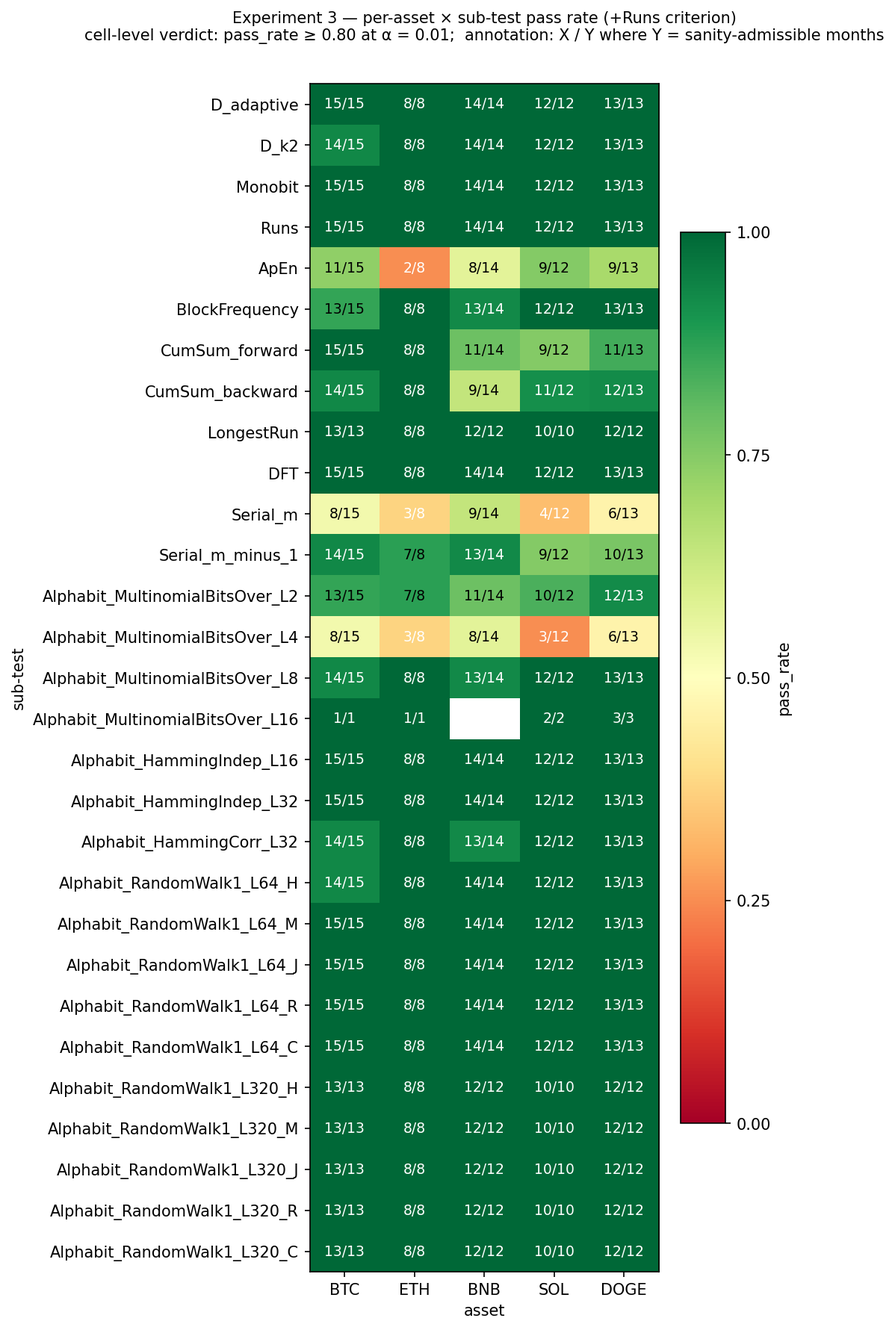
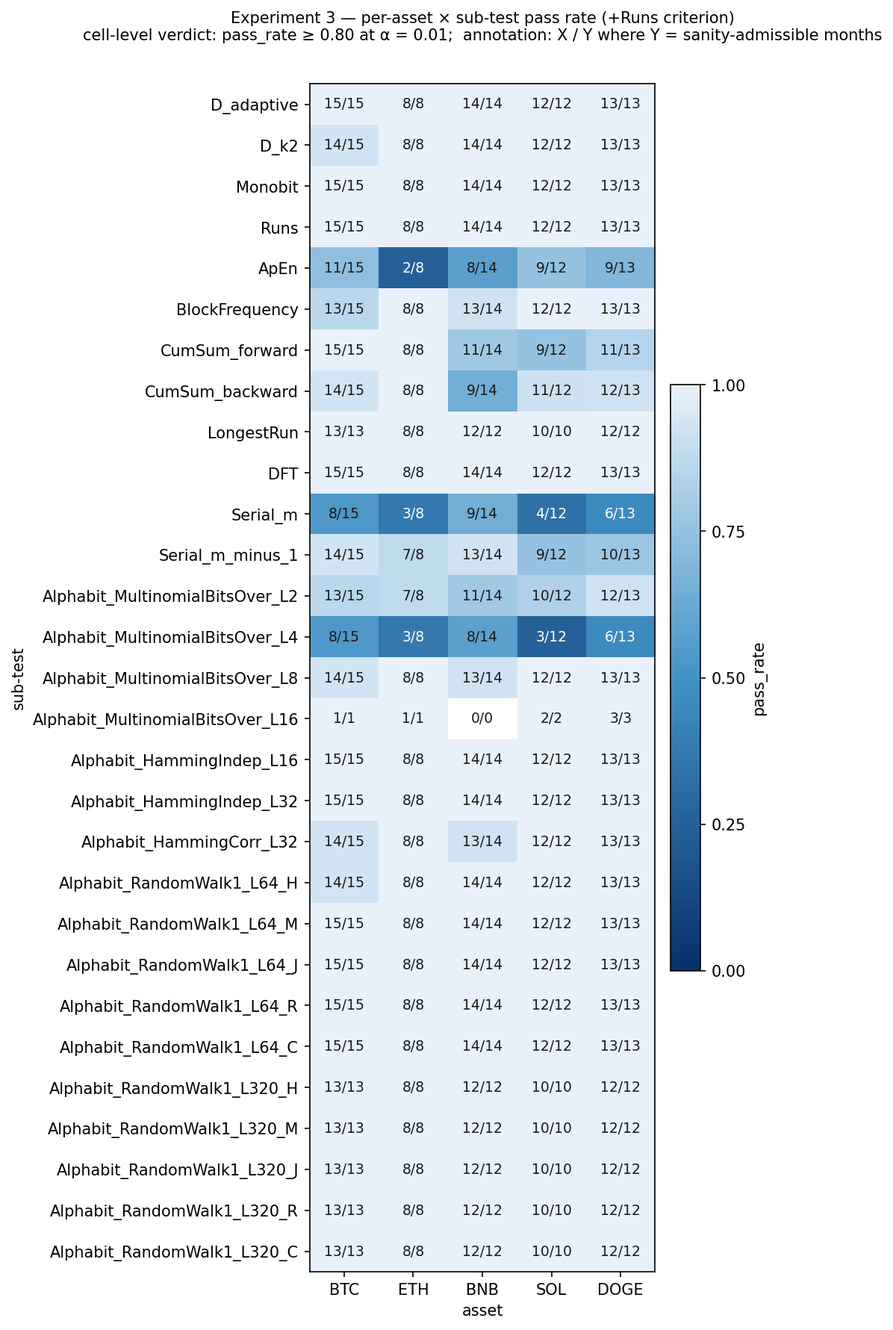
docs(thesis): em-dash typography pass and minor wording polish

diff --git a/thesis/main.tex b/thesis/main.tex
@@ -127,9 +127,9 @@ The experiments give a conditional yes. Raw per-trade price changes fail the sta
 
 Random numbers are used in many areas, including cryptography, digital signatures, data anonymisation, and simulation. They are one of the most basic building blocks for system security and correctness. 
 
-There are two common types of random number sources. The first type is the pseudo-random number generator (PRNG), which uses a deterministic algorithm. It starts from a short initial value, called a \emph{seed}, and expands it into a long sequence of numbers that look random. As long as the seed is kept secret, the output is unpredictable. The catch is that the seed itself must be genuinely hard to guess - what is technically called a \emph{high-entropy} value, meaning it carries enough true unpredictability that an attacker cannot reproduce it. A PRNG therefore does not remove the need for true randomness; it only shifts that need to producing a good seed. 
+There are two common types of random number sources. The first type is the pseudo-random number generator (PRNG), which uses a deterministic algorithm. It starts from a short initial value, called a \emph{seed}, and expands it into a long sequence of numbers that look random. As long as the seed is kept secret, the output is unpredictable. The catch is that the seed itself must be genuinely hard to guess --- what is technically called a \emph{high-entropy} value, meaning it carries enough true unpredictability that an attacker cannot reproduce it. A PRNG therefore does not remove the need for true randomness; it only shifts that need to producing a good seed. 
 
-The second type is the true random number generator (TRNG), which uses physical processes such as electronic noise - for instance, the on-chip RDRAND/RDSEED instructions in modern Intel CPUs~\citep{mathew2012intel} - or quantum sources such as photon detection and vacuum-fluctuation measurement, which are surveyed in detail by~\citet{herrero2017qrng} and have been commercialised as products like ID Quantique's Quantis. TRNGs provide real unpredictability, but they require special hardware, are expensive to deploy, and are not easy to access on ordinary user devices.
+The second type is the true random number generator (TRNG), which uses physical processes such as electronic noise --- for instance, the on-chip RDRAND/RDSEED instructions in modern Intel CPUs~\citep{mathew2012intel} --- or quantum sources such as photon detection and vacuum-fluctuation measurement, which are surveyed in detail by~\citet{herrero2017qrng} and have been commercialised as products like ID Quantique's Quantis. TRNGs provide real unpredictability, but they require special hardware, are expensive to deploy, and are not easy to access on ordinary user devices.
 
 In recent years, a middle-ground approach has attracted research interest: whether randomness can be extracted from high-entropy natural data sources that already exist and are publicly accessible. Candidates studied in the literature include blockchain data such as Bitcoin block hashes~\citep{bonneau2015bitcoin,pierrot2018malleability} and financial market data; the latter is the focus of this thesis. It is produced by a large number of participants at very high frequency, contains microstructure noise that is hard to model, and shows complexity that is hard to compress beyond simple statistical structure. Several previous works have explored this idea under the name \emph{financial randomness beacon}~\citep{clark2010beacon,chiba2024lfsr,landis2025beacon}, trying to turn public market data into a candidate randomness source.
 
@@ -198,7 +198,7 @@ This section reviews papers related to the statistical properties and randomness
 
 \subsection*{Stylised facts and microstructure noise}
 
-On the statistical properties of high-frequency financial time series, \citet{cont2001stylized} summarised a set of ``stylised facts'' from the returns viewpoint. These include heavy-tailed distributions, volatility clustering, slow power-law decay of the autocorrelation of absolute returns, and - most relevant to this thesis - negative autocorrelation at very short lags (microstructure scale) caused by the bid-ask bounce. That is, trade prices switch frequently between the best bid and the best ask, which makes the bit sequence encoded by the sign of $\Delta p$ strongly negatively correlated at neighbouring positions. \citet{bouchaud2002orderbooks} described the same problem from the order-book side, where price changes are shaped by the limit order book and not by independent draws. \citet{shternshis2025predictability} formalised this negative autocorrelation as a testable first-order residual diagnostic, and provided empirical evidence on three low-price stocks: SNAP, F, and CCL.
+On the statistical properties of high-frequency financial time series, \citet{cont2001stylized} summarised a set of ``stylised facts'' from the returns viewpoint. These include heavy-tailed distributions, volatility clustering, slow power-law decay of the autocorrelation of absolute returns, and --- most relevant to this thesis --- negative autocorrelation at very short lags (microstructure scale) caused by the bid-ask bounce. That is, trade prices switch frequently between the best bid and the best ask, which makes the bit sequence encoded by the sign of $\Delta p$ strongly negatively correlated at neighbouring positions. \citet{bouchaud2002orderbooks} described the same problem from the order-book side, where price changes are shaped by the limit order book and not by independent draws. \citet{shternshis2025predictability} formalised this negative autocorrelation as a testable first-order residual diagnostic, and provided empirical evidence on three low-price stocks: SNAP, F, and CCL.
 
 In addition to the bid-ask bounce, another well-documented stylised fact at the microstructure level is the long memory of trade signs. \citet{lillo2004longmemory} showed on the London Stock Exchange that the signs of executed market orders follow a long-memory process, with autocorrelation that decays slowly. They attribute this to order splitting and herding behaviour. The two stylised facts work in opposite directions on the lag-1 autocorrelation of price-change signs: the bid-ask bounce produces negative autocorrelation by alternating between the bid and the ask, while persistent trade-sign autocorrelation produces positive autocorrelation when a sustained order flow walks the book. Which mechanism dominates depends on the activity regime of the asset.
 
@@ -209,8 +209,8 @@ Together, these works show that any approach which directly treats the ``sign of
 This line of work can be split into three complementary levels of abstraction.
 \begin{enumerate}
 \item \textbf{Protocol level.} \citet{clark2010beacon} used computational finance tools to estimate that each stock in the Dow Jones 30 (a US index of 30 large-cap companies) provides 6--9 bits of entropy per day. Based on this, they designed a 128-bit verifiable beacon protocol. Blockchain data is a parallel route at the same level: \citet{bonneau2015bitcoin} studied Bitcoin block hashes as a public randomness beacon, and \citet{pierrot2018malleability} analysed how such entropy can be malleable under miner or adversarial influence. This thesis does not use blockchain data; it uses financial market data as the entropy input.
-\item \textbf{Bit extraction level.} \citet{chiba2024lfsr} used cryptocurrency prices to perturb the sampling interval of an LFSR, produced a bit stream, and ran Diehard tests (a classic randomness test battery, the historical precursor of NIST STS) as a sanity check - this answers how market signals can be engineered and whitened into usable random bits.
-\item \textbf{Adversarial security level.} \citet{landis2025beacon} showed under an active attacker model that manipulating an S\&P~100 beacon (a US index of 100 large-cap companies) would require billions of dollars of capital and millions of dollars of slippage cost - this moves the question from ``how much entropy is there'' to ``is the entropy trustworthy under adversarial conditions?''.
+\item \textbf{Bit extraction level.} \citet{chiba2024lfsr} used cryptocurrency prices to perturb the sampling interval of an LFSR, produced a bit stream, and ran Diehard tests (a classic randomness test battery, the historical precursor of NIST STS) as a sanity check --- this answers how market signals can be engineered and whitened into usable random bits.
+\item \textbf{Adversarial security level.} \citet{landis2025beacon} showed under an active attacker model that manipulating an S\&P~100 beacon (a US index of 100 large-cap companies) would require billions of dollars of capital and millions of dollars of slippage cost --- this moves the question from ``how much entropy is there'' to ``is the entropy trustworthy under adversarial conditions?''.
 \end{enumerate}
 
 These three levels answer different questions, but none of them connects all the way from ``is the underlying data statistically usable'' to an application-level password prototype. This is the second gap from the Brief Literature Review made concrete on cryptocurrency data. This thesis sits mainly at the bit extraction level, but differs from \citet{chiba2024lfsr} in that, at the randomness-evaluation stage, it does not depend on extra LFSR post-processing. Instead, it directly evaluates whether the aggregated raw data itself satisfies modern randomness tests. It also does not enter the active-attacker level studied by \citet{landis2025beacon}; the scope is a passive statistical setting, which is sufficient for the password-generator evaluation in this thesis (see \cref{sec:linking-results-rq}).
@@ -230,7 +230,7 @@ These three levels answer different questions, but none of them connects all the
 
 This section reviews the core concepts used in the later Methods chapter. All randomness tests are based on the same null hypothesis $H_0$: the sequence is i.i.d. Each test gives a $p$-value, and this thesis uses $\alpha = 0.01$ uniformly as the acceptance threshold.
 
-\textbf{Shannon entropy and conditional unpredictability.} For a binary random variable $X \in \{0, 1\}$, the Shannon entropy is defined as $H(X) = -\sum p(x) \log_2 p(x)$~\citep{shannon1948communication}, and reaches its maximum value of 1 when $p(0) = p(1) = 0.5$. It is worth emphasising that a marginal entropy close to 1 does not imply that the sequence is unpredictable - a sequence that simply alternates between 0 and 1 also has marginal distribution 0.5/0.5, but its conditional entropy $H(X_t \mid X_{t-1}) \approx 0$. The criterion for ``is it random'' used in this thesis is always based on conditional distributions or multi-symbol statistics, not on $H$ alone. Throughout this thesis, the deviation $|H(X) - 1|$ is reported as the \emph{Shannon bias}, used as a summary indicator only and not as an acceptance criterion. Mutual information, conditional entropy, and min-entropy are standard information-theoretic concepts; a general reference is \citet{cover2006information}.
+\textbf{Shannon entropy and conditional unpredictability.} For a binary random variable $X \in \{0, 1\}$, the Shannon entropy is defined as $H(X) = -\sum p(x) \log_2 p(x)$~\citep{shannon1948communication}, and reaches its maximum value of 1 when $p(0) = p(1) = 0.5$. It is worth emphasising that a marginal entropy close to 1 does not imply that the sequence is unpredictable --- a sequence that simply alternates between 0 and 1 also has marginal distribution 0.5/0.5, but its conditional entropy $H(X_t \mid X_{t-1}) \approx 0$. The criterion for ``is it random'' used in this thesis is always based on conditional distributions or multi-symbol statistics, not on $H$ alone. Throughout this thesis, the deviation $|H(X) - 1|$ is reported as the \emph{Shannon bias}, used as a summary indicator only and not as an acceptance criterion. Mutual information, conditional entropy, and min-entropy are standard information-theoretic concepts; a general reference is \citet{cover2006information}.
 
 \textbf{Predictability $\boldsymbol{D}$.} The entropy-based predictability test proposed by \citet{shternshis2025predictability} is based on the Kullback--Leibler divergence. It measures how much the joint distribution of consecutive symbol blocks of length $k$ in the sequence deviates from the distribution that would be expected under i.i.d. Under $H_0$ it asymptotically follows a $\chi^2$ distribution with $(s^{k-1} - 1)(s - 1)$ degrees of freedom (which equals $2^{k-1} - 1$ in the binary case). The window length $k$ is a user-chosen hyper-parameter.
 
@@ -323,7 +323,7 @@ On the transaction-time axis, the unit of $\ell$ is ``number of trades''. On the
 \section{All-Offset Construction}
 \label{sec:all-offset}
 
-The all-offset construction described in this section comes directly from the ``$\ell$-samplings'' framework proposed by \citet{onofri2025emergence} - for each aggregation level $\ell$, $\ell$ separate bit streams are built, one from each starting offset ($o = 0, 1, \ldots, \ell - 1$). This thesis follows this construction, and only adjusts the parameters on the cryptocurrency data (per-asset $\ell$ grid, step, and upper bound).
+The all-offset construction described in this section comes directly from the ``$\ell$-samplings'' framework proposed by \citet{onofri2025emergence} --- for each aggregation level $\ell$, $\ell$ separate bit streams are built, one from each starting offset ($o = 0, 1, \ldots, \ell - 1$). This thesis follows this construction, and only adjusts the parameters on the cryptocurrency data (per-asset $\ell$ grid, step, and upper bound).
 
 For a fixed $\ell$, there are $\ell$ candidate offsets. The construction considers all $\ell$ bit streams together. Let $p^{(o)}$ denote the test $p$-value on each stream; the pass rate is defined as
 \begin{equation}
@@ -350,7 +350,7 @@ Under the extended-battery convention, this thesis uses a fixed \textbf{29-sub-t
 
 \textbf{When TestU01 is enabled.} Following the cross-battery design of \citet{onofri2025emergence}, the methodology of this thesis further includes the Alphabit sub-battery of TestU01 as cross-battery external validation. TestU01 is not enabled during the selection-grid stage: the per-(asset, $\ell$, offset) bit stream is only an intermediate output of parameter search, and its length is usually below the range where the cross-battery sanity check applies, so it is not a suitable input for cross-battery validation. The extended-audit and validation stages concatenate across months, assets, or offsets at the selected $\ell^*$, so that the length meets the sanity-check range, and the corresponding Alphabit sub-tests are then enabled. Rabbit requires longer and more stable bit streams and is therefore not part of the main analysis.
 
-\textbf{Why both fixed $\boldsymbol{k = 2}$ and adaptive $\boldsymbol{k}$?} Adaptive $k = \lfloor 0.5 \log_2 n \rfloor$ is usually 5 to 6 on ultra-high-frequency monthly samples. The $D$ test then has $2^{k-1} \approx 16$ to $32$ contexts; first-order correlation -- whether the symbol reversal caused by the bid-ask bounce, or the same-direction persistence caused by sustained order flow - is diluted across more than ten or even tens of positions, and the statistical power drops quickly. \citet{shternshis2025predictability} provides empirical evidence consistent with this: on predictable days, with fixed $k = 2$, the ``too strong sign reversal'' pattern (i.e., $\hat{p}(00) + \hat{p}(11) < 0.5$) is significant; when $k$ is raised to about 5 to 6, this pattern is no longer significant. Therefore, $D(k = 2)$ is kept as a first-order diagnostic for pair-of-signs dependence, complementary to $D(\text{adaptive } k)$. The former captures short-range structure, while the latter measures the overall predictability. The later baseline results further verify that first-order residuals in cryptocurrency tick signs need to be diagnosed explicitly, rather than being left to the adaptive-$k$ main statistic alone.
+\textbf{Why both fixed $\boldsymbol{k = 2}$ and adaptive $\boldsymbol{k}$?} Adaptive $k = \lfloor 0.5 \log_2 n \rfloor$ is usually 5 to 6 on ultra-high-frequency monthly samples. The $D$ test then has $2^{k-1} \approx 16$ to $32$ contexts; first-order correlation -- whether the symbol reversal caused by the bid-ask bounce, or the same-direction persistence caused by sustained order flow --- is diluted across more than ten or even tens of positions, and the statistical power drops quickly. \citet{shternshis2025predictability} provides empirical evidence consistent with this: on predictable days, with fixed $k = 2$, the ``too strong sign reversal'' pattern (i.e., $\hat{p}(00) + \hat{p}(11) < 0.5$) is significant; when $k$ is raised to about 5 to 6, this pattern is no longer significant. Therefore, $D(k = 2)$ is kept as a first-order diagnostic for pair-of-signs dependence, complementary to $D(\text{adaptive } k)$. The former captures short-range structure, while the latter measures the overall predictability. The later baseline results further verify that first-order residuals in cryptocurrency tick signs need to be diagnosed explicitly, rather than being left to the adaptive-$k$ main statistic alone.
 
 \section{Acceptance Criteria}
 \label{sec:acceptance-criteria}
@@ -581,7 +581,7 @@ Experiment~1 answers the negative side of RQ1. The simplest possible baseline is
 \label{sec:exp1-results}
 
 \begin{table}[!htbp]
-  \caption{Experiment~1 baseline - per-asset summary.}
+  \caption{Experiment~1 baseline --- per-asset summary.}
   \label{tab:exp1-summary}
   \centering
   \setlength{\tabcolsep}{4.2pt}
@@ -607,7 +607,7 @@ Experiment~1 answers the negative side of RQ1. The simplest possible baseline is
   \begin{center}
     \includegraphics[width=\textwidth]{figures/exp1_per_asset_distributions.png}
   \end{center}
-  \caption{Experiment~1 baseline - per-(asset, month) distributions.}
+  \caption{Experiment~1 baseline --- per-(asset, month) distributions.}
   \label{fig:exp1-distributions}
   \floatnote{One observation per (asset, month) cell across the 15-month sample. \emph{Top-left:} bits per second. \emph{Top-right:} lag-1 autocorrelation $\rho_1$, with the zero line marked. \emph{Bottom-left:} ECDF of $-\log_{10}(p_{\text{Monobit}})$, with the $\alpha = 0.01$ rejection threshold marked. \emph{Bottom-right:} $L_{\max} = \max(\text{0-run}, \text{1-run})$ histogram.}
 \end{figure}
@@ -765,7 +765,7 @@ This step replaces the ``single offset passes'' rule with the strict criterion o
 
 \textbf{BTC plays the high-activity outlier role in this dataset: 8 of 15 months have no solution in $\ell \leq 2000$.} Under single offset only 2 months (2025-01, 2025-08) fail; under the strict criterion this number rises to 8. The same asset and the same aggregation range now cost much more, mostly because BTC has to carry the $80\%$ joint confirmation. This failure pattern cannot be explained by single-month raw trades/s alone: ETH, which also has high activity, still passes 13 of 15 months, while BTC fails on both lower and higher activity months. ETH and SOL each have 2 failing months, so $63$ of $75$ cells pass and the overall acceptance rate of the strict criterion is $63/75 = 84\%$.
 
-\textbf{The streams that pass the strict criterion still fail Runs in a systematic way.} It should be stressed that the strict criterion uses only $D$ (adaptive $k$) + Monobit as the main criterion. Among the 63 cells accepted, 38 cells have a Runs pass rate below $0.05$ (see the note of \cref{tab:appendix-a2}), which means that at the selected $\ell^*$ of those cells almost every offset stream is rejected by Runs; $D(k = 2)$ shows the same pattern. So ``passing the strict criterion'' does not mean ``the first-order structure is removed''; it only guarantees that $D$ at adaptive $k$ and Monobit are both satisfied. This residual is a stable feature on the transaction-time axis, and is one reason for comparing the physical-time axis in \cref{sec:exp2-1sbars}.
+\textbf{The streams that pass the strict criterion still fail Runs in a systematic way.} The strict criterion uses only $D$ (adaptive $k$) and Monobit as its main test, with Runs and $D(k=2)$ kept as diagnostics. Among the 63 cells accepted, 38 cells have a Runs pass rate below $0.05$ (see the note of \cref{tab:appendix-a2}): at the selected $\ell^*$ of those cells almost every offset stream is rejected by Runs, and $D(k=2)$ shows the same pattern. Passing the strict criterion therefore certifies $D$ (adaptive $k$) and Monobit, while first-order structure can still remain. This residual is a stable feature on the transaction-time axis, and is one reason for comparing the physical-time axis in \cref{sec:exp2-1sbars}.
 
 \textbf{The strict criterion leaves two practical problems.} First, BTC has no acceptable $\ell \leq 2000$ on 8 months, which shows that the $80\%$ requirement can be too strict for the highest-activity asset. Second, the month-to-month range of selected $\ell^*$ is wide, and the coarse grid further limits the precision of the estimate. \cref{sec:exp2-relaxed-criterion} therefore tries a relaxed offset-coverage criterion and also refines the $\ell$ grid to step $2$.
 
@@ -1190,7 +1190,7 @@ The 33-byte IKM size follows the min-entropy estimate in \cref{tab:exp4-min-entr
 
 Rejection sampling is used to avoid modulo bias~\citep{lemire2019random}. The accepted byte range is $b < 210$, because 210 is the largest multiple of 70 below 256. The HKDF implementation is checked against RFC 5869 Appendix~A Test Case~1~\citep{krawczyk2010rfc5869}. In this run, all 2,400 HKDF-generated passwords finish in one expand round, and the re-expand fallback is never used.
 
-The scope is passive statistical evaluation. Since the market input has already been evaluated in \cref{cha:experiments}, this chapter uses output-level character uniformity and Shannon entropy rather than rerunning the full NIST/TestU01 battery on the password strings. Active market manipulation and production secret management remain outside this prototype scope.
+This chapter uses output-level character uniformity and Shannon entropy rather than re-running the full NIST/TestU01 battery on the password strings, since the statistical randomness of the market input has already been evaluated in \cref{cha:experiments}.
 
 The prototype uses a repository-persisted salt so that the demo output can be reproduced exactly. This salt is suitable for reproducing the experiment: the same market streams, code, and salt generate the same passwords. Since market data are public, a production password generator would need to combine the market-derived entropy with non-public deployment-secret material during conditioning. The public demo salt in the repository is not suitable as the only secret source in a production setting.
 
@@ -1225,7 +1225,7 @@ Each cell is evaluated with two output metrics. First, the 100 passwords are exp
 
 \begin{figure}[!htb]
   \begin{center}
-    \includegraphics[width=\textwidth]{figures/prototype_eval_chi2_entropy.png}
+    \includegraphics[width=0.9\textwidth]{figures/prototype_eval_chi2_entropy.png}
   \end{center}
   \caption{Prototype evaluation -- chi-square and Shannon entropy.}
   \label{fig:prototype-eval}
@@ -1341,7 +1341,7 @@ The contributions of this thesis can be grouped into two levels: method-level an
 
 \textbf{Application contribution.} \cref{cha:prototype} gives an end-to-end password generator prototype. It connects the Experiment~4 deployable streams to HKDF-SHA256 conditioning and 70-character rejection sampling. In the evaluation, all the market-derived cells pass the character-uniformity test and their Shannon entropy matches the ideal baselines (see \cref{tab:prototype-evaluation}). This is the application-level evidence that standard cryptographic conditioning can turn the deployable streams into usable passwords.
 
-Overall, the thesis shows that market-derived randomness is not usable in raw form, but it can become useful after aggregation, extended testing, multi-asset combination, min-entropy sizing, and cryptographic conditioning. The result is practical, but deliberately bounded by the passive statistical scope of the work. The implementation code, experiment scripts, and processed outputs are available in the project repository: \url{https://github.com/Liu-yujia-66/CryptoEntropy-RNG}.
+Overall, the thesis shows that market-derived randomness is not usable in raw form, but it can become useful after aggregation, extended testing, multi-asset combination, min-entropy sizing, and cryptographic conditioning. The implementation code, experiment scripts, and processed outputs are available in the project repository: \url{https://github.com/Liu-yujia-66/CryptoEntropy-RNG}.
 
 %% =====================================================================
 %% Appendix

diff --git a/scripts/plot_exp4_validation.py b/scripts/plot_exp4_validation.py
@@ -116,7 +116,7 @@ DISPLAY_ASSET_NAME = {
 # fused streams) is paler so it visually reads as "no data" rather than
 # "ran and failed sanity". Any unknown verdict string is binned into
 # NOT_RUN by the .get() default — keeps the runner / plot drift-safe.
-VERDICT_COLOURS = ListedColormap(["#2ca02c", "#d62728", "#cccccc", "#f4f4f4"])
+VERDICT_COLOURS = ListedColormap(["#e8f1fa", "#08306b", "#bdc7d1", "#ffffff"])
 VERDICT_LABELS = {"PASS": 0, "FAIL": 1, "INVALID": 2, "NOT_RUN": 3}
 
 
@@ -148,6 +148,11 @@ def _plot_verdict_matrices(validation_root: Path, output_path: Path) -> None:
     summary = json.loads(summary_path.read_text())
     n_values = summary["n_values"]
     subset_picks = summary["subset_picks"]
+    tick_fontsize = 10
+    axis_label_fontsize = 11
+    panel_title_fontsize = 12
+    legend_fontsize = 11
+    figure_title_fontsize = 14
 
     # 29 sub-tests per panel; widen from the 12-test era's (13, 9) so the
     # x-axis labels stay legible.
@@ -168,17 +173,19 @@ def _plot_verdict_matrices(validation_root: Path, output_path: Path) -> None:
             interpolation="nearest",
         )
         ax.set_xticks(range(len(SUB_TESTS)))
-        ax.set_xticklabels(SUB_TEST_LABELS, rotation=45, ha="right", fontsize=8)
+        ax.set_xticklabels(
+            SUB_TEST_LABELS, rotation=45, ha="right", fontsize=tick_fontsize
+        )
         ax.set_yticks(range(len(months)))
-        ax.set_yticklabels(months, fontsize=8)
+        ax.set_yticklabels(months, fontsize=tick_fontsize)
         if idx == len(n_values) - 1:
-            ax.set_xlabel("sub-test")
-        ax.set_ylabel("validation month")
+            ax.set_xlabel("sub-test", fontsize=axis_label_fontsize)
+        ax.set_ylabel("validation month", fontsize=axis_label_fontsize)
         ax.set_title(
             f"n={n}: {_short_subset(pick['subset'])}  "
             f"ell*={pick['ell_star_n']}  "
             f"selected output offset={pick['witness_offset']}",
-            fontsize=10,
+            fontsize=panel_title_fontsize,
         )
         # Optionally annotate FAIL cells with pass_rate from the CSV
         per_month_csv = pd.read_csv(n_dir / "per_month_verdict_matrix.csv").sort_values(
@@ -196,7 +203,7 @@ def _plot_verdict_matrices(validation_root: Path, output_path: Path) -> None:
                             f"{rate:.2f}",
                             ha="center",
                             va="center",
-                            fontsize=6,
+                            fontsize=10,
                             color="white",
                         )
 
@@ -205,11 +212,11 @@ def _plot_verdict_matrices(validation_root: Path, output_path: Path) -> None:
         axes[k].axis("off")
 
     handles = [
-        Patch(facecolor="#2ca02c", edgecolor="none", label="PASS (>=80% offsets)"),
-        Patch(facecolor="#d62728", edgecolor="none", label="FAIL"),
-        Patch(facecolor="#cccccc", edgecolor="none", label="INVALID (sanity)"),
+        Patch(facecolor="#e8f1fa", edgecolor="#aaaaaa", label="PASS (>=80% offsets)"),
+        Patch(facecolor="#08306b", edgecolor="none", label="FAIL"),
+        Patch(facecolor="#bdc7d1", edgecolor="none", label="INVALID (sanity)"),
         Patch(
-            facecolor="#f4f4f4",
+            facecolor="#ffffff",
             edgecolor="#888888",
             linewidth=0.5,
             label="NOT_RUN (TestU01 length-skip)",
@@ -221,11 +228,12 @@ def _plot_verdict_matrices(validation_root: Path, output_path: Path) -> None:
         ncol=2,
         frameon=False,
         bbox_to_anchor=(0.5, 0.01),
+        fontsize=legend_fontsize,
     )
     fig.suptitle(
         "Experiment 4 validation — cell-level verdict per sub-test "
         f"(6 months × {len(SUB_TESTS)} sub-tests, throughput-best subset per n)",
-        fontsize=12,
+        fontsize=figure_title_fontsize,
     )
     fig.tight_layout(rect=(0.0, 0.06, 1.0, 0.975))
     output_path.parent.mkdir(parents=True, exist_ok=True)

diff --git a/scripts/plot_exp4_mi_matrix.py b/scripts/plot_exp4_mi_matrix.py
@@ -35,6 +35,13 @@ import pandas as pd
 
 matplotlib.use("Agg")
 import matplotlib.pyplot as plt
+from matplotlib.colors import LinearSegmentedColormap as _LSC
+
+INK = "#16324f"
+# Monochrome "ink" colormap (no red/green): faint -> deep navy.
+# Saturated blue (no red/green): light blue -> vivid blue -> deep navy;
+# the vivid mid-stop stops the mid-range washing out to grey.
+INK_CMAP = _LSC.from_list("ink", ["#e8f1fa", "#4292c6", "#08306b"])
 
 DISPLAY_NAMES = {
     "BTCUSDT": "BTC",
@@ -123,34 +130,36 @@ def main() -> int:
     ax = axes[0]
     mi_values = mi.values.astype(float)
     mi_masked = np.ma.masked_invalid(mi_values)
-    cmap = plt.cm.viridis.copy()
-    cmap.set_bad(color="#dcdcdc")
+    cmap = INK_CMAP.copy()
+    cmap.set_bad(color="white")
     vmax = float(np.nanmax(mi_values))
-    im = ax.imshow(mi_masked, cmap=cmap, vmin=0.0, vmax=vmax, aspect="auto")
+    im = ax.imshow(mi_masked, cmap=cmap, vmin=0.0, vmax=1.0, aspect="auto")
     ax.set_xticks(range(n))
     ax.set_xticklabels(labels, rotation=0)
     ax.set_yticks(range(n))
     ax.set_yticklabels(labels)
     ax.set_title("Pairwise 1-bit mutual information (bits)")
-    _annotate(ax, mi_values, "{:.3f}", colour_threshold=vmax * 0.55)
+    _annotate(ax, mi_values, "{:.3f}", colour_threshold=0.55)
     cbar = fig.colorbar(im, ax=ax, fraction=0.046, pad=0.04)
+    cbar.set_ticks([0.0, 0.25, 0.5, 0.75, 1.0])
     cbar.set_label("MI (bits)")
 
     # ---- Bottom: Pearson heatmap ----
     ax = axes[1]
     rho_values = rho.values.astype(float)
     rho_masked = np.ma.masked_invalid(rho_values)
-    cmap = plt.cm.viridis.copy()
-    cmap.set_bad(color="#dcdcdc")
+    cmap = INK_CMAP.copy()
+    cmap.set_bad(color="white")
     rho_max = float(np.nanmax(np.abs(rho_values)))
-    im = ax.imshow(rho_masked, cmap=cmap, vmin=0.0, vmax=rho_max, aspect="auto")
+    im = ax.imshow(rho_masked, cmap=cmap, vmin=0.0, vmax=1.0, aspect="auto")
     ax.set_xticks(range(n))
     ax.set_xticklabels(labels, rotation=0)
     ax.set_yticks(range(n))
     ax.set_yticklabels(labels)
     ax.set_title("Pairwise Pearson correlation $\\rho$")
-    _annotate(ax, rho_values, "{:.2f}", colour_threshold=rho_max * 0.55)
+    _annotate(ax, rho_values, "{:.2f}", colour_threshold=0.55)
     cbar = fig.colorbar(im, ax=ax, fraction=0.046, pad=0.04)
+    cbar.set_ticks([0.0, 0.25, 0.5, 0.75, 1.0])
     cbar.set_label(r"|$\rho$|")
 
     fig.suptitle(

diff --git a/scripts/plot_exp3.py b/scripts/plot_exp3.py
@@ -50,6 +50,15 @@ from src.utils import ASSET_COLORS
 VALID_GATES = ("base", "runs", "apen")
 ALPHA = 0.01
 
+# Monochrome "ink" palette (no red/green): pass-rate heatmap maps high
+# pass-rate -> faint, low pass-rate -> deep navy so failures stand out.
+from matplotlib.colors import LinearSegmentedColormap as _LSC
+INK = "#16324f"
+# Same saturated-blue ramp as the MI matrix; reversed so low pass-rate
+# (failures) reads deep navy and high pass-rate reads faint blue.
+PASS_RATE_CMAP = _LSC.from_list("inkpass", ["#08306b", "#4292c6", "#e8f1fa"])
+PASS_RATE_CMAP.set_bad("white")
+
 # Use the same asset order as scripts/aggregate_exp3_battery.py and
 # plan §1.4 admissible-months table (BTC, ETH, BNB, SOL, DOGE), NOT the
 # alphabetical `src.utils.ASSET_ORDER`. Keeps Exp 3 figures / tables /
@@ -104,7 +113,7 @@ def plot_heatmap(summary: pd.DataFrame, out_path: Path, gate: str) -> None:
     # zero 100K cells per plan §1.4.1). pd.to_numeric coerces pd.NA → NaN so
     # imshow renders it blank instead of `.astype(float)` choking on NAType.
     data = pr_pivot.apply(pd.to_numeric, errors="coerce").to_numpy(dtype=float)
-    im = ax.imshow(data, cmap="RdYlGn", vmin=0.0, vmax=1.0, aspect="auto")
+    im = ax.imshow(data, cmap=PASS_RATE_CMAP, vmin=0.0, vmax=1.0, aspect="auto")
 
     # Annotate every cell with "X/Y" — choose text color for contrast.
     for i, sub_test in enumerate(ALL_SUB_TESTS):
@@ -117,7 +126,7 @@ def plot_heatmap(summary: pd.DataFrame, out_path: Path, gate: str) -> None:
             # Black text on the green/yellow band, white on extreme red/dark
             # green; NaN rate (n_admissible == 0) → white "0/0" label.
             text_color = (
-                "black" if (pd.notna(rate) and 0.40 <= rate <= 0.90) else "white"
+                "white" if (pd.notna(rate) and rate < 0.5) else "#1a1a1a"
             )
             ax.text(
                 j, i, f"{int(p)}/{int(a)}",
@@ -139,7 +148,7 @@ def plot_heatmap(summary: pd.DataFrame, out_path: Path, gate: str) -> None:
         pad=28,
     )
 
-    cbar = fig.colorbar(im, ax=ax, shrink=0.75, label="pass_rate")
+    cbar = fig.colorbar(im, ax=ax, shrink=0.75, fraction=0.075, pad=0.04, label="pass_rate")
     cbar.set_ticks([0.0, 0.25, 0.5, 0.75, 1.0])
 
     fig.tight_layout()
